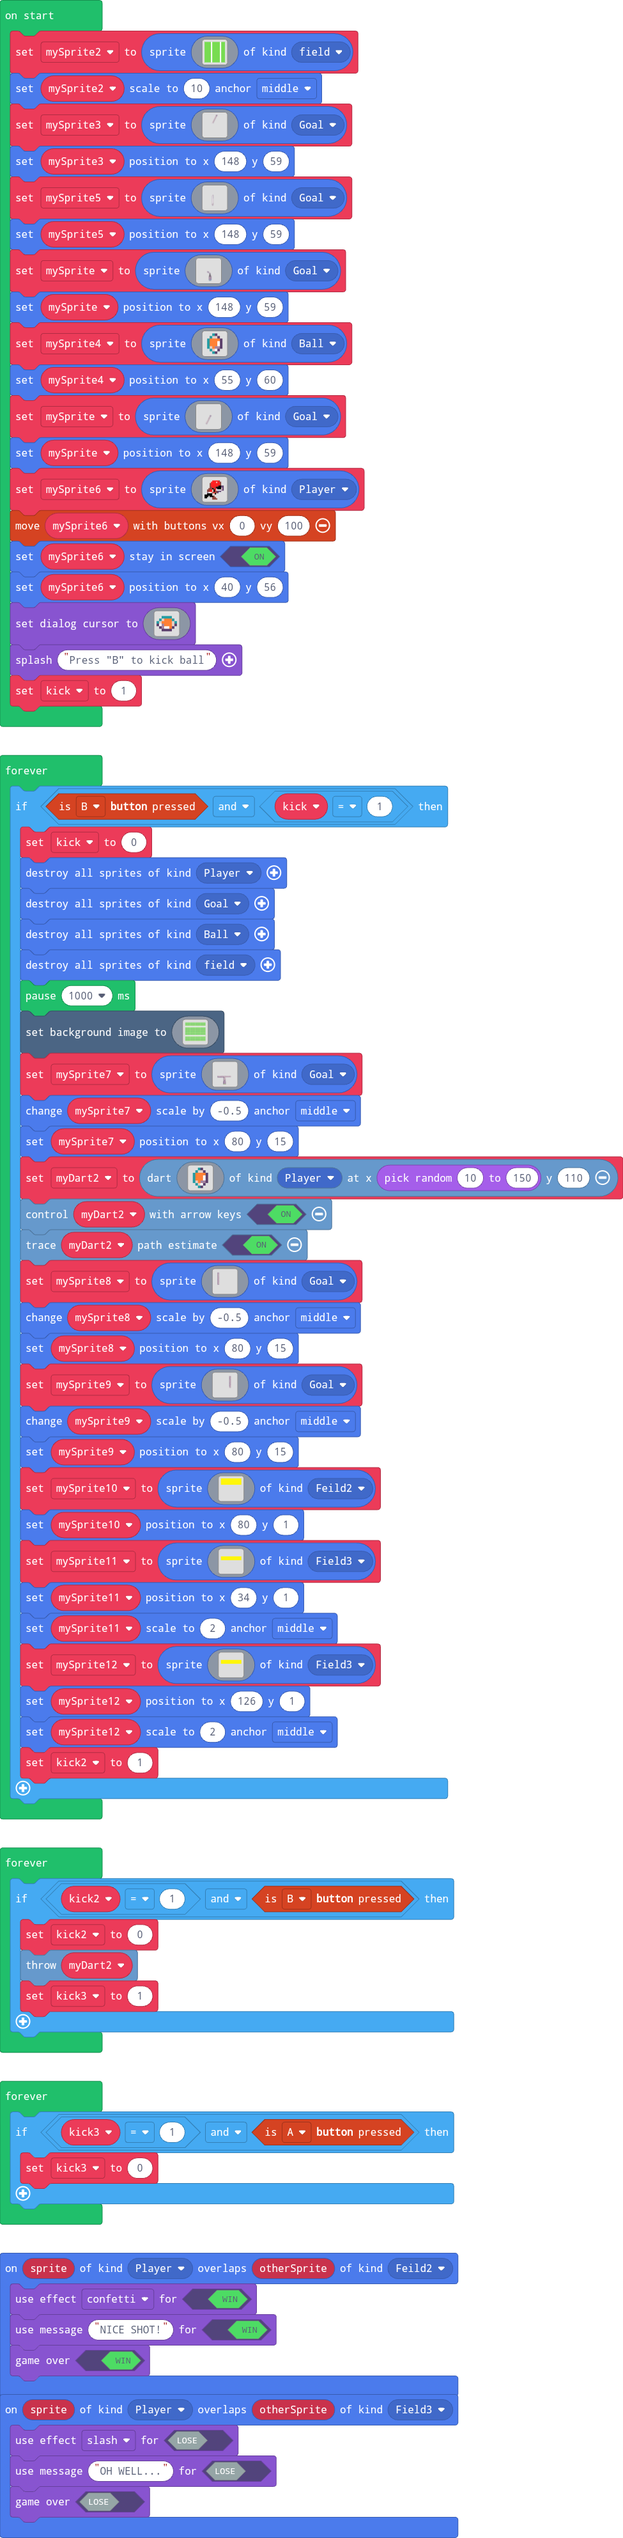
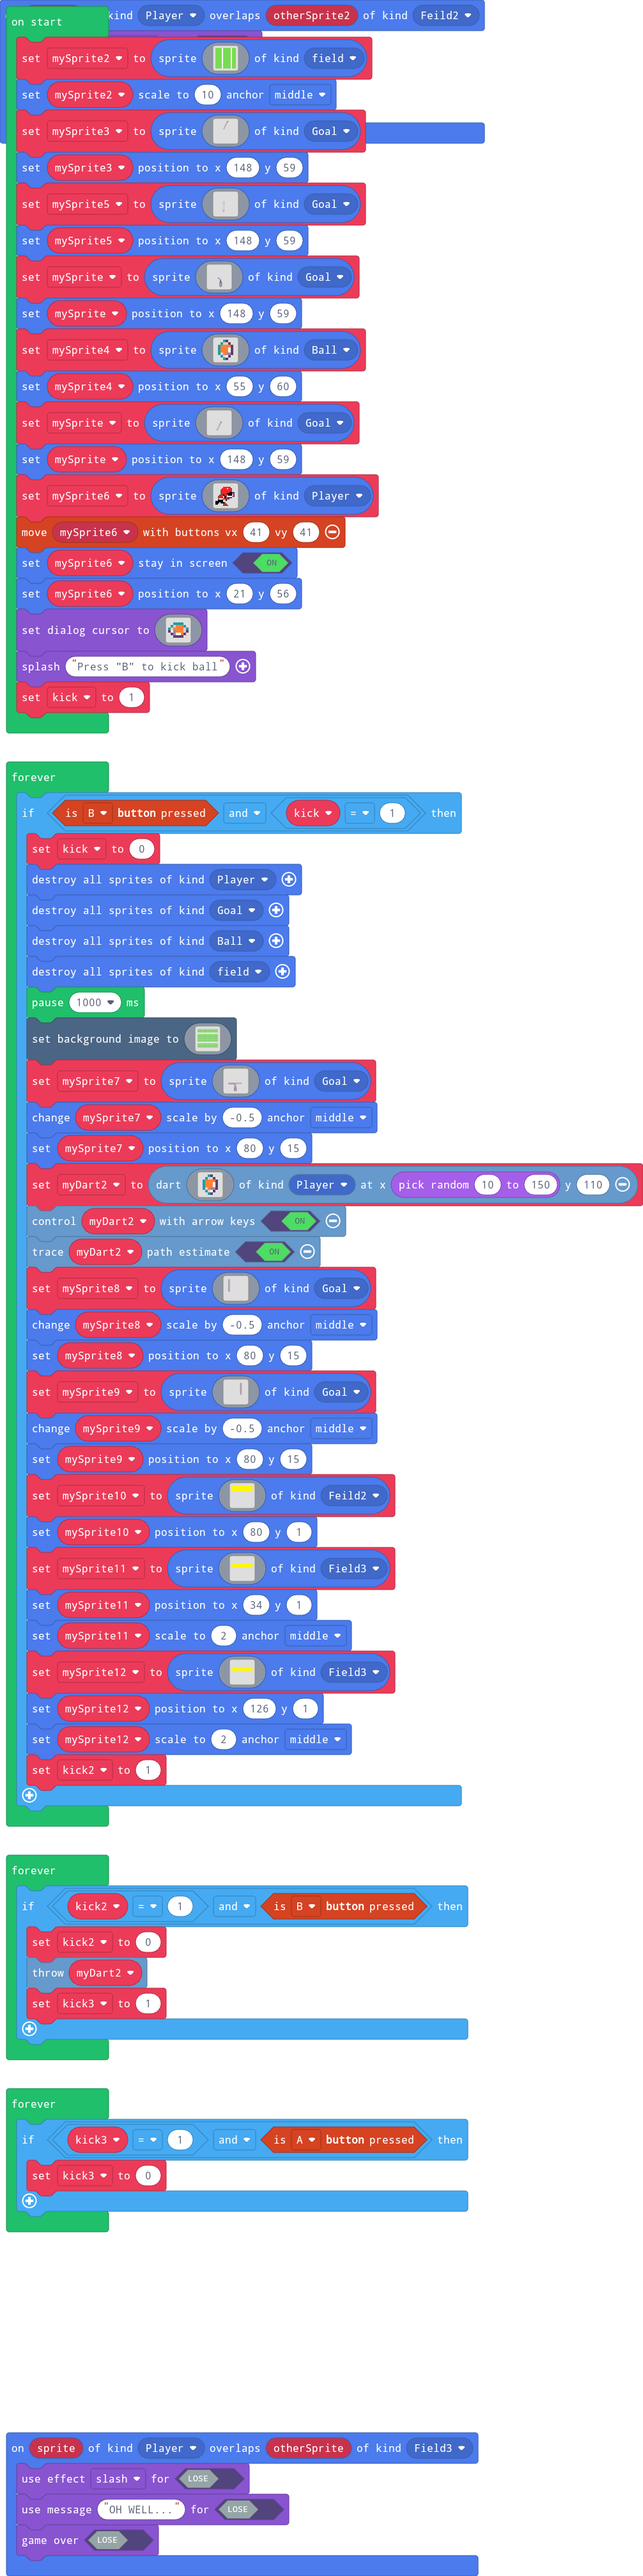
bug fixes

Changed region(s): [[0.0, 0.0, 1.0, 1.0]]

diff --git a/main.ts b/main.ts
@@ -13,7 +13,7 @@ sprites.onOverlap(SpriteKind.Player, SpriteKind.Field3, function (sprite, otherS
     game.setGameOverMessage(false, "OH WELL...")
     game.gameOver(false)
 })
-sprites.onOverlap(SpriteKind.Player, SpriteKind.Feild2, function (sprite, otherSprite) {
+sprites.onOverlap(SpriteKind.Player, SpriteKind.Feild2, function (sprite2, otherSprite2) {
     game.setGameOverEffect(true, effects.confetti)
     game.setGameOverMessage(true, "NICE SHOT!")
     game.gameOver(true)
@@ -40,9 +40,9 @@ mySprite4.setPosition(55, 60)
 mySprite = sprites.create(assets.image`Goal1`, SpriteKind.Goal)
 mySprite.setPosition(148, 59)
 let mySprite6 = sprites.create(assets.image`footballPlayer1`, SpriteKind.Player)
-controller.moveSprite(mySprite6, 0, 100)
+controller.moveSprite(mySprite6, 41, 41)
 mySprite6.setStayInScreen(true)
-mySprite6.setPosition(40, 56)
+mySprite6.setPosition(21, 56)
 game.setDialogCursor(assets.image`myImage0`)
 game.splash("Press \"B\" to kick ball")
 let kick = 1

diff --git a/main.py b/main.py
@@ -1,0 +1,133 @@
+@namespace
+class SpriteKind:
+    Goal = SpriteKind.create()
+    Ball = SpriteKind.create()
+    hidden = SpriteKind.create()
+    field = SpriteKind.create()
+    Bar = SpriteKind.create()
+    selector = SpriteKind.create()
+    Feild2 = SpriteKind.create()
+    Field3 = SpriteKind.create()
+
+def on_on_overlap(sprite, otherSprite):
+    game.set_game_over_effect(False, effects.slash)
+    game.set_game_over_message(False, "OH WELL...")
+    game.game_over(False)
+sprites.on_overlap(SpriteKind.player, SpriteKind.Field3, on_on_overlap)
+
+def on_on_overlap2(sprite2, otherSprite2):
+    game.set_game_over_effect(True, effects.confetti)
+    game.set_game_over_message(True, "NICE SHOT!")
+    game.game_over(True)
+sprites.on_overlap(SpriteKind.player, SpriteKind.Feild2, on_on_overlap2)
+
+kick3 = 0
+kick2 = 0
+mySprite12: Sprite = None
+mySprite11: Sprite = None
+mySprite10: Sprite = None
+mySprite9: Sprite = None
+mySprite8: Sprite = None
+myDart2: Dart = None
+mySprite7: Sprite = None
+mySprite2 = sprites.create(assets.image("""
+    myImage
+"""), SpriteKind.field)
+mySprite2.set_scale(10, ScaleAnchor.MIDDLE)
+mySprite3 = sprites.create(assets.image("""
+    Goal0
+"""), SpriteKind.Goal)
+mySprite3.set_position(148, 59)
+mySprite5 = sprites.create(assets.image("""
+    Goal2
+"""), SpriteKind.Goal)
+mySprite5.set_position(148, 59)
+mySprite = sprites.create(assets.image("""
+    fieldGoal
+"""), SpriteKind.Goal)
+mySprite.set_position(148, 59)
+mySprite4 = sprites.create(assets.image("""
+    myImage1
+"""), SpriteKind.Ball)
+mySprite4.set_position(55, 60)
+mySprite = sprites.create(assets.image("""
+    Goal1
+"""), SpriteKind.Goal)
+mySprite.set_position(148, 59)
+mySprite6 = sprites.create(assets.image("""
+    footballPlayer1
+"""), SpriteKind.player)
+controller.move_sprite(mySprite6, 41, 41)
+mySprite6.set_stay_in_screen(True)
+mySprite6.set_position(21, 56)
+game.set_dialog_cursor(assets.image("""
+    myImage0
+"""))
+game.splash("Press \"B\" to kick ball")
+kick = 1
+
+def on_forever():
+    global kick, mySprite7, myDart2, mySprite8, mySprite9, mySprite10, mySprite11, mySprite12, kick2
+    if controller.B.is_pressed() and kick == 1:
+        kick = 0
+        sprites.destroy_all_sprites_of_kind(SpriteKind.player)
+        sprites.destroy_all_sprites_of_kind(SpriteKind.Goal)
+        sprites.destroy_all_sprites_of_kind(SpriteKind.Ball)
+        sprites.destroy_all_sprites_of_kind(SpriteKind.field)
+        pause(1000)
+        scene.set_background_image(assets.image("""
+            myImage3
+        """))
+        mySprite7 = sprites.create(assets.image("""
+            myImage14
+        """), SpriteKind.Goal)
+        mySprite7.change_scale(-0.5, ScaleAnchor.MIDDLE)
+        mySprite7.set_position(80, 15)
+        myDart2 = darts.create(assets.image("""
+                myImage1
+            """),
+            SpriteKind.player,
+            randint(10, 150),
+            110)
+        myDart2.control_with_arrow_keys(True)
+        myDart2.set_trace(True)
+        mySprite8 = sprites.create(assets.image("""
+            myImage13
+        """), SpriteKind.Goal)
+        mySprite8.change_scale(-0.5, ScaleAnchor.MIDDLE)
+        mySprite8.set_position(80, 15)
+        mySprite9 = sprites.create(assets.image("""
+            myImage2
+        """), SpriteKind.Goal)
+        mySprite9.change_scale(-0.5, ScaleAnchor.MIDDLE)
+        mySprite9.set_position(80, 15)
+        mySprite10 = sprites.create(assets.image("""
+            myImage15
+        """), SpriteKind.Feild2)
+        mySprite10.set_position(80, 1)
+        mySprite11 = sprites.create(assets.image("""
+            myImage16
+        """), SpriteKind.Field3)
+        mySprite11.set_position(34, 1)
+        mySprite11.set_scale(2, ScaleAnchor.MIDDLE)
+        mySprite12 = sprites.create(assets.image("""
+            myImage16
+        """), SpriteKind.Field3)
+        mySprite12.set_position(126, 1)
+        mySprite12.set_scale(2, ScaleAnchor.MIDDLE)
+        kick2 = 1
+forever(on_forever)
+
+def on_forever2():
+    global kick2, kick3
+    if kick2 == 1 and controller.B.is_pressed():
+        kick2 = 0
+        myDart2.throw_dart()
+        kick3 = 1
+forever(on_forever2)
+
+def on_forever3():
+    global kick3
+    if kick3 == 1 and controller.A.is_pressed():
+        kick3 = 0
+forever(on_forever3)
